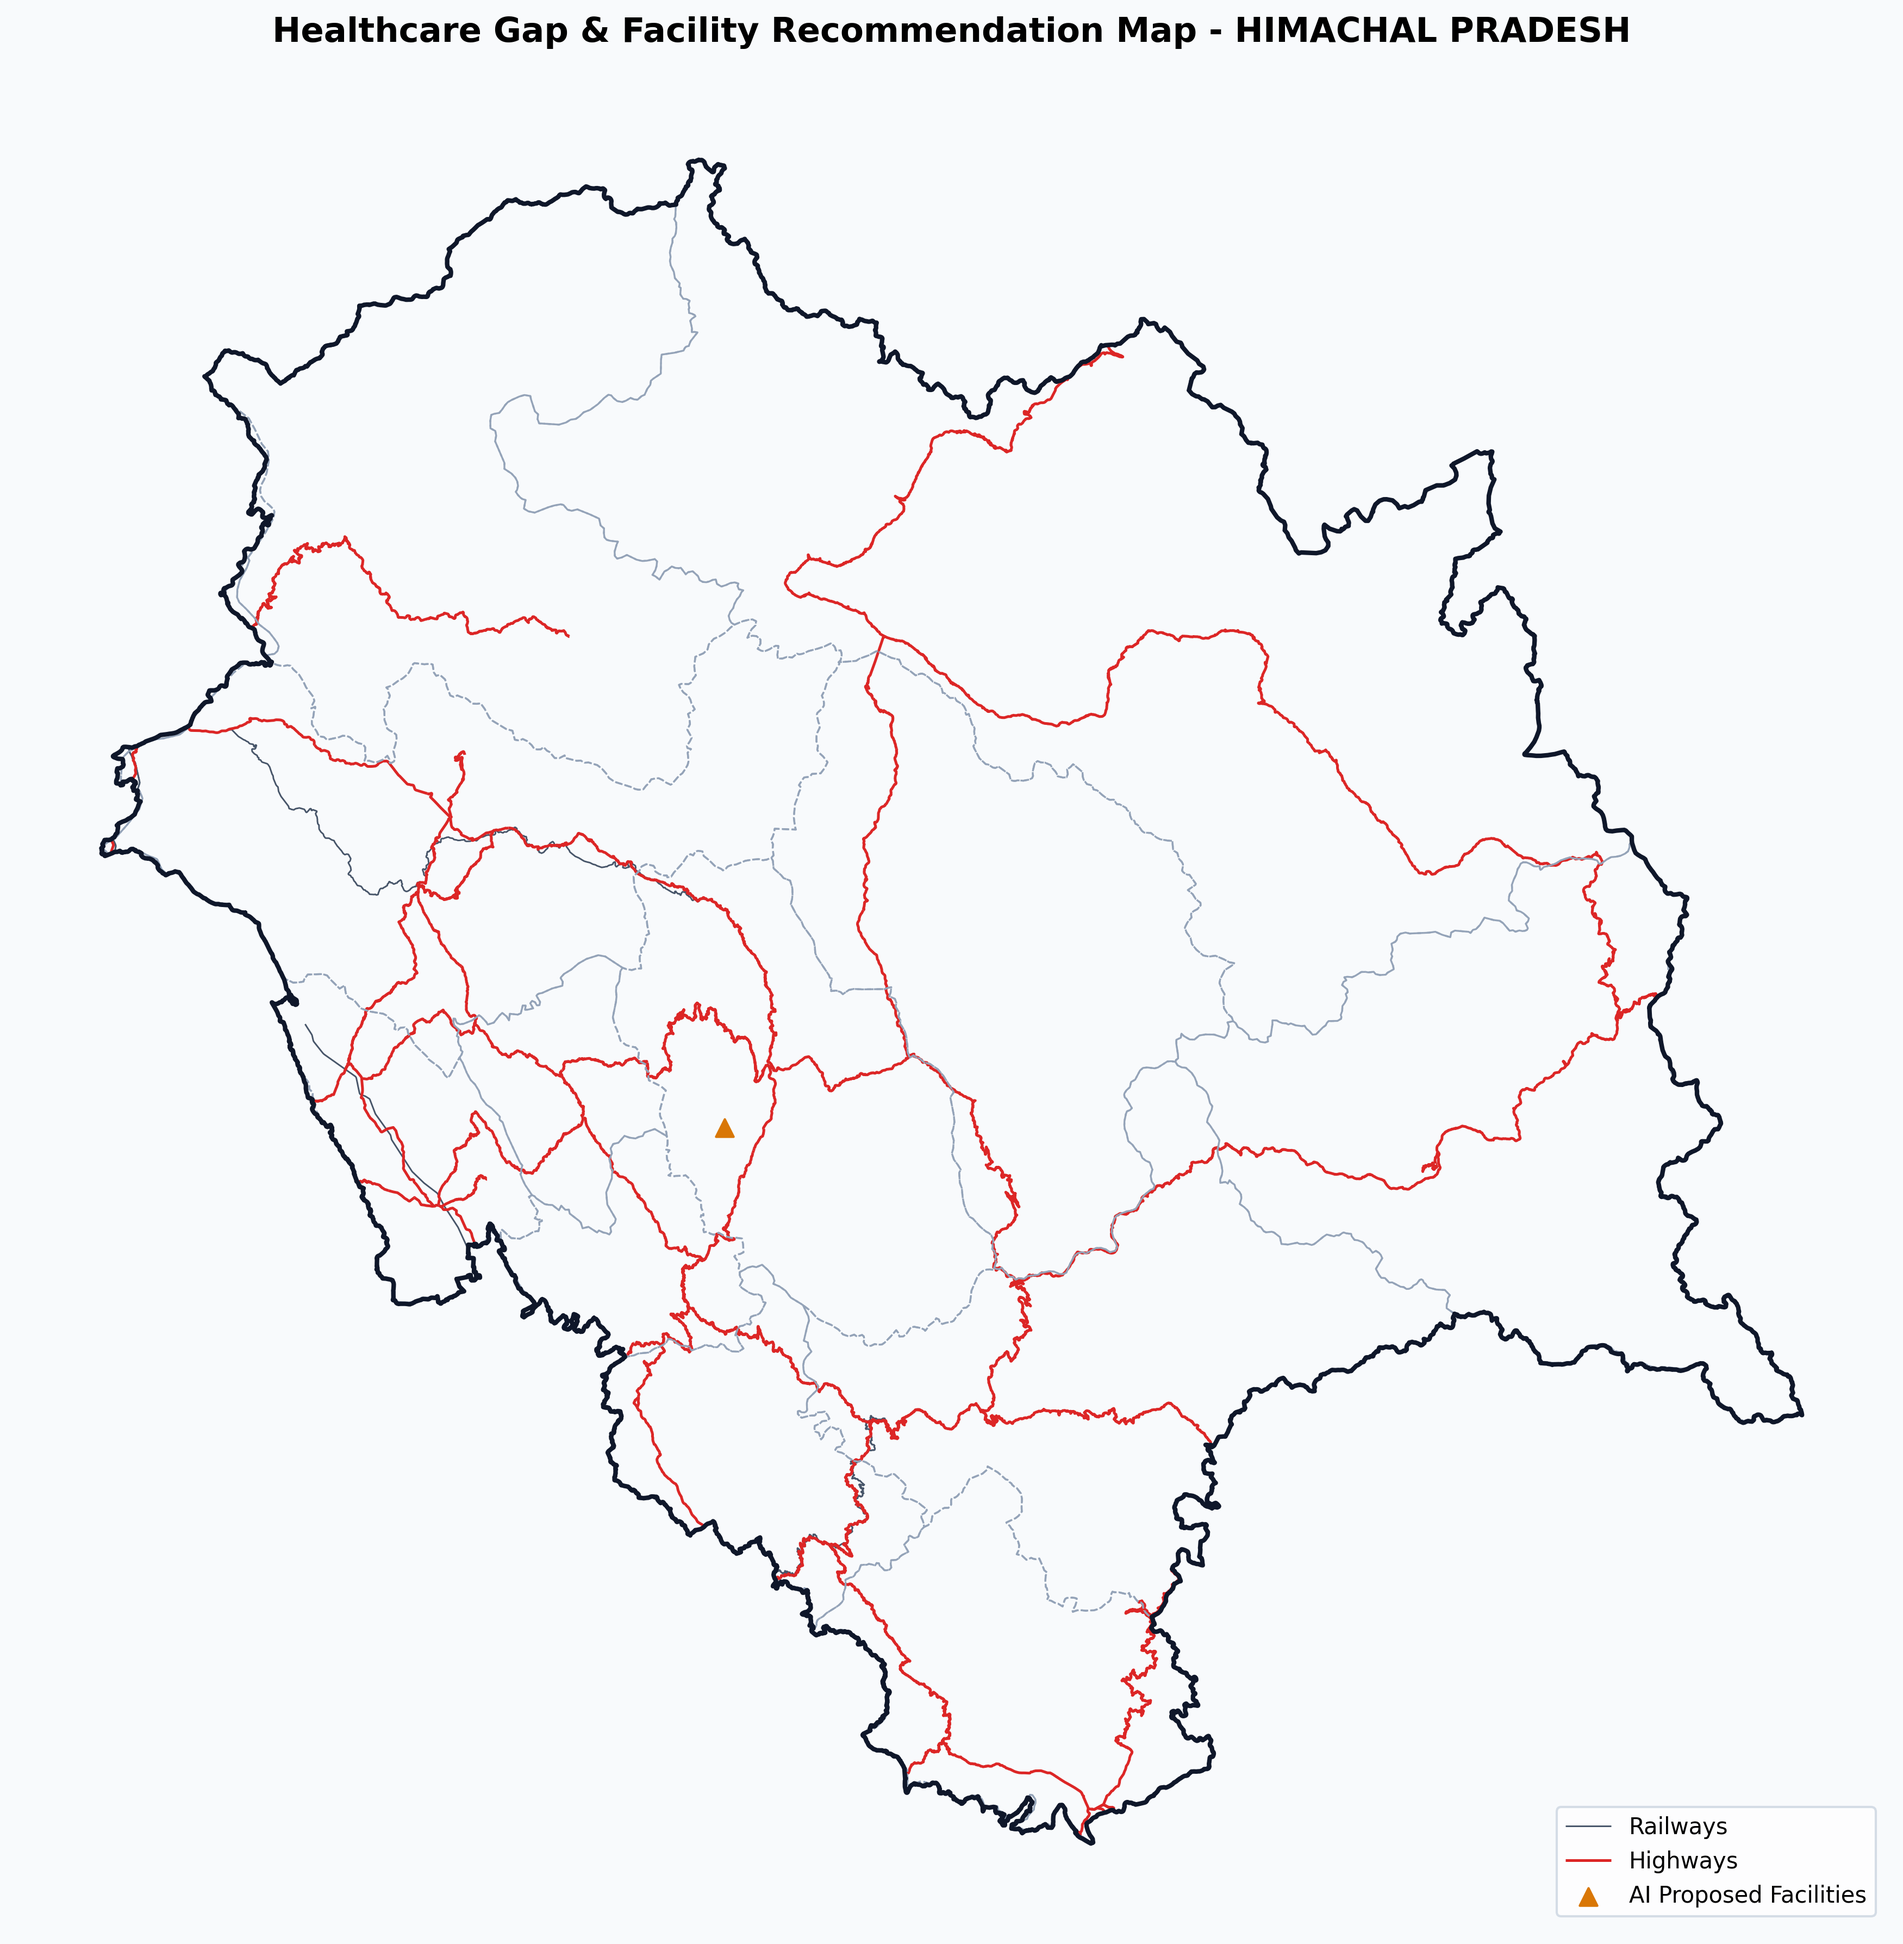
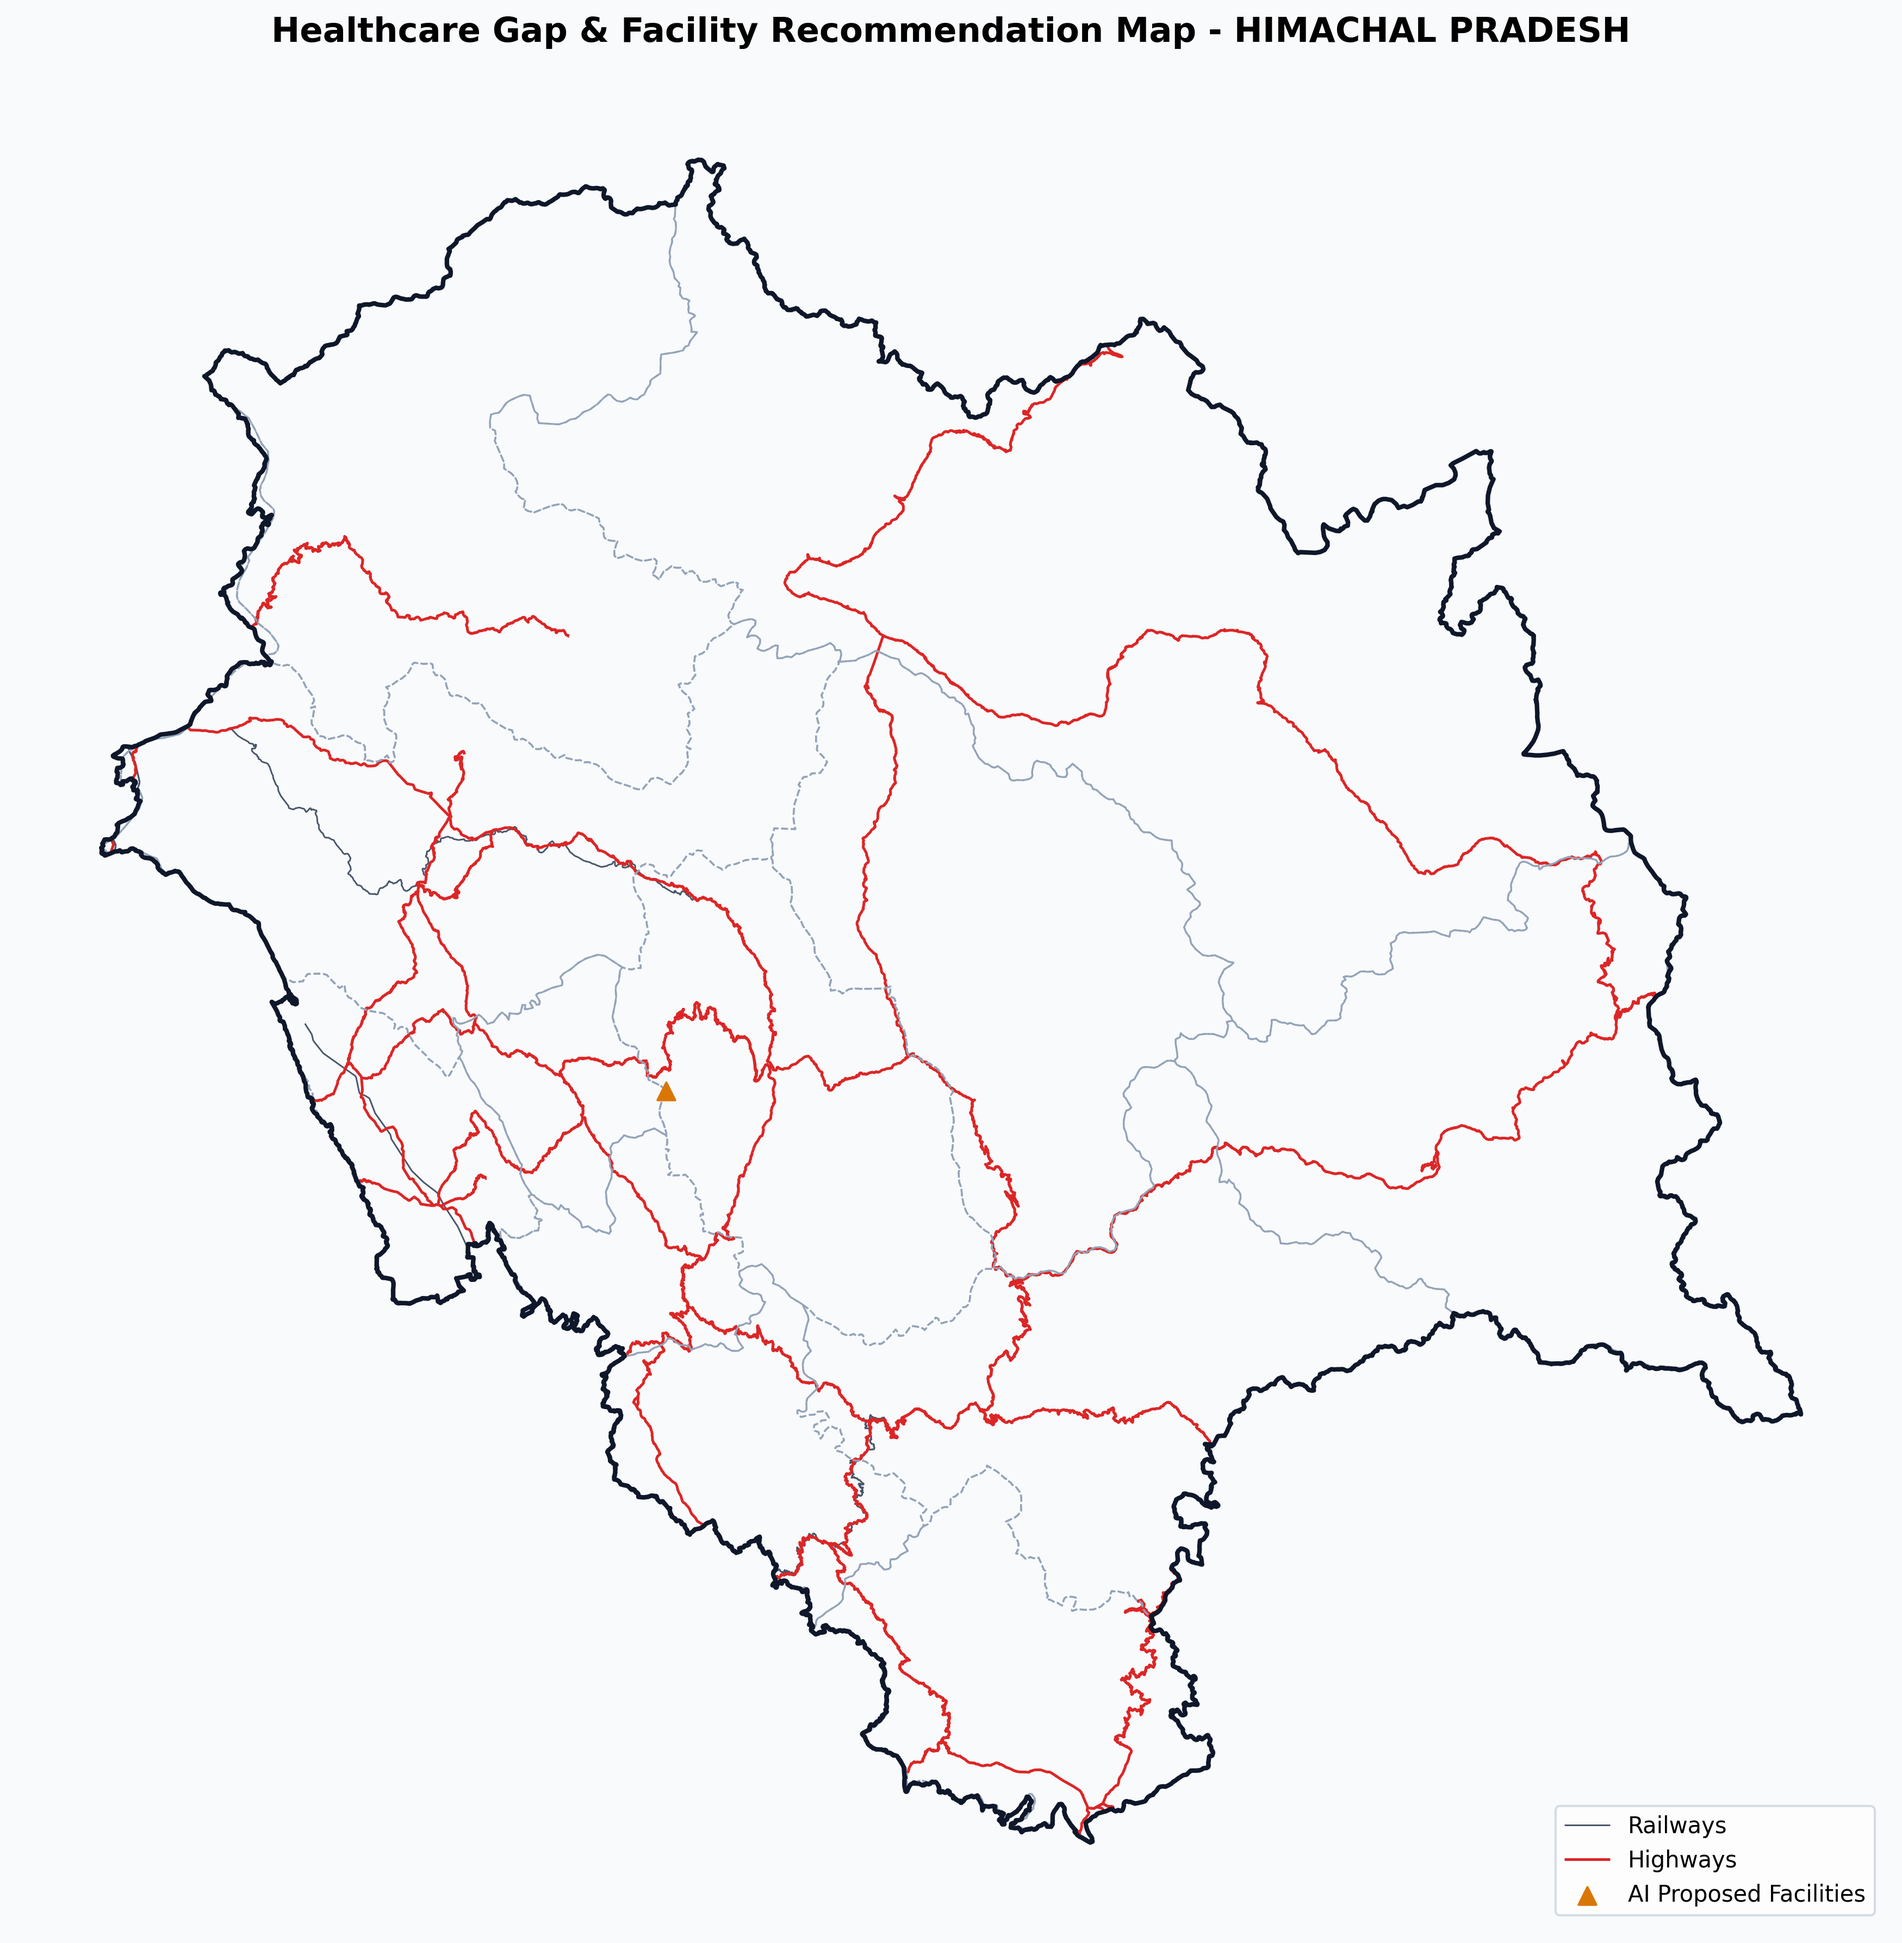
Refresh all files

Changed region(s): [[0.8725, 0.9317, 0.9037, 0.9628]]

diff --git a/modules/facility_recommender.py b/modules/facility_recommender.py
@@ -9,6 +9,55 @@ PROJECT_ROOT = Path(__file__).resolve().parent.parent
 CONSTANT_DATA_DIR = PROJECT_ROOT / "constant_data"
 OFFICIAL_SOI_BORDER = CONSTANT_DATA_DIR / "india-soi.geojson"
 
+# Population capacity mapping for healthcare facility types
+POPULATION_CAP_MAP = {
+    "MCH": 500000,
+    "MC": 500000,
+    "DH": 300000,
+    "SDH": 150000,
+    "RH": 100000,
+    "CHC": 100000,
+    "BPHC": 100000,
+    "PHC": 30000,
+    "UPHC": 30000,
+    "SC": 5000,
+}
+
+# Facility tiers ordered from highest capacity to primary care
+FACILITY_HIERARCHY = ["MCH", "MC", "DH", "SDH", "CHC", "BPHC", "PHC", "UPHC", "SC"]
+
+
+def predict_facility_type(cluster_population: float, is_urban: bool = False) -> dict:
+    """Predicts the recommended facility tier and required units based on cluster population."""
+    if cluster_population <= 0:
+        return {
+            "recommended_facility": "SC",
+            "units_needed": 1,
+            "unit_capacity": POPULATION_CAP_MAP["SC"],
+        }
+
+    candidate_tiers = (
+        ["MC", "DH", "SDH", "UPHC"]
+        if is_urban
+        else ["DH", "SDH", "CHC", "BPHC", "PHC", "SC"]
+    )
+
+    selected_facility = "SC"
+    for facility in candidate_tiers:
+        cap = POPULATION_CAP_MAP[facility]
+        if cluster_population >= cap:
+            selected_facility = facility
+            break
+
+    unit_capacity = POPULATION_CAP_MAP[selected_facility]
+    units_needed = int(np.ceil(cluster_population / unit_capacity))
+
+    return {
+        "recommended_facility": selected_facility,
+        "units_needed": units_needed,
+        "unit_capacity": unit_capacity,
+    }
+
 
 def filter_effective_facilities(health_gdf: gpd.GeoDataFrame) -> gpd.GeoDataFrame:
     """Excludes non-patient Sub-Centers (SCE / SC) from healthcare gap calculations."""
@@ -18,16 +67,32 @@ def filter_effective_facilities(health_gdf: gpd.GeoDataFrame) -> gpd.GeoDataFram
     type_cols = [
         c
         for c in health_gdf.columns
-        if any(k in c.lower() for k in ["type", "cat", "facility", "level", "nin", "nin_facility"])
+        if any(
+            k in c.lower()
+            for k in ["type", "cat", "facility", "level", "nin", "nin_facility"]
+        )
     ]
     if not type_cols:
         return health_gdf
 
     type_col = type_cols[0]
-    non_patient_codes = ["sce", "sub center", "sub-center", "sub centre", "sub-centre", "sc"]
+    non_patient_codes = [
+        "sce",
+        "sub center",
+        "sub-center",
+        "sub centre",
+        "sub-centre",
+        "sc",
+    ]
     pattern = r"|".join([rf"\b{re.escape(code)}\b" for code in non_patient_codes])
 
-    return health_gdf[~health_gdf[type_col].astype(str).str.strip().str.lower().str.contains(pattern, regex=True)]
+    return health_gdf[
+        ~health_gdf[type_col]
+        .astype(str)
+        .str.strip()
+        .str.lower()
+        .str.contains(pattern, regex=True)
+    ]
 
 
 def predict_facility_locations(
@@ -38,9 +103,22 @@ def predict_facility_locations(
     cluster_eps_km: float = 15.0,
     min_villages_per_cluster: int = 5,
 ) -> gpd.GeoDataFrame:
-    """Identifies unserved village clusters and calculates optimal location centroids strictly within official SOI borders."""
+    """Identifies unserved village clusters, calculates population-weighted centroids,
+
+    and predicts facility types/units strictly within official SOI borders.
+    """
+    empty_cols = [
+        "recommendation_id",
+        "geometry",
+        "unserved_population",
+        "village_count",
+        "recommended_facility",
+        "units_needed",
+        "unit_capacity",
+    ]
+
     if villages_gdf is None or villages_gdf.empty:
-        return gpd.GeoDataFrame(columns=["recommendation_id", "geometry"], crs="EPSG:4326")
+        return gpd.GeoDataFrame(columns=empty_cols, crs="EPSG:4326")
 
     clean_health = filter_effective_facilities(health_gdf)
 
@@ -57,10 +135,12 @@ def predict_facility_locations(
         unserved_villages = villages_gdf.copy()
 
     if unserved_villages.empty:
-        return gpd.GeoDataFrame(columns=["recommendation_id", "geometry"], crs="EPSG:4326")
+        return gpd.GeoDataFrame(columns=empty_cols, crs="EPSG:4326")
 
     coords_rad = np.radians(
-        unserved_villages[["geometry"]].apply(lambda p: [p.geometry.y, p.geometry.x], axis=1).tolist()
+        unserved_villages[["geometry"]]
+        .apply(lambda p: [p.geometry.y, p.geometry.x], axis=1)
+        .tolist()
     )
     kms_per_radian = 6371.0088
     epsilon = cluster_eps_km / kms_per_radian
@@ -68,9 +148,24 @@ def predict_facility_locations(
     db = DBSCAN(eps=epsilon, min_samples=min_villages_per_cluster, metric="haversine")
     unserved_villages["cluster"] = db.fit_predict(coords_rad)
 
-    clustered = unserved_villages[unserved_villages["cluster"] != -1]
+    clustered = unserved_villages[unserved_villages["cluster"] != -1].copy()
     if clustered.empty:
-        return gpd.GeoDataFrame(columns=["recommendation_id", "geometry"], crs="EPSG:4326")
+        return gpd.GeoDataFrame(columns=empty_cols, crs="EPSG:4326")
+
+    # Detect population column name dynamically
+    pop_col = None
+    possible_pop_cols = [
+        "POPULATION",
+        "TOT_P",
+        "TOTAL_POP",
+        "pop",
+        "tot_p",
+        "population",
+    ]
+    for col in possible_pop_cols:
+        if col in clustered.columns:
+            pop_col = col
+            break
 
     # Load Survey of India boundary for territorial validation
     soi_gdf = None
@@ -89,26 +184,58 @@ def predict_facility_locations(
             pass
 
     boundary_union = (
-        valid_boundary.unary_union if (valid_boundary is not None and not valid_boundary.empty) else None
+        valid_boundary.unary_union
+        if (valid_boundary is not None and not valid_boundary.empty)
+        else None
     )
 
-    proposed_points = []
-    rec_ids = []
+    records = []
 
     for cluster_id, group in clustered.groupby("cluster"):
-        center_lon = group.geometry.x.mean()
-        center_lat = group.geometry.y.mean()
+        total_pop = 0
+        if pop_col is not None:
+            # Convert non-numeric values gracefully
+            pop_series = pd.to_numeric(group[pop_col], errors="coerce").fillna(0)
+            total_pop = float(pop_series.sum())
+
+        # Population-Weighted Centroid calculation
+        if total_pop > 0:
+            center_lon = (group.geometry.x * pop_series).sum() / total_pop
+            center_lat = (group.geometry.y * pop_series).sum() / total_pop
+        else:
+            center_lon = group.geometry.x.mean()
+            center_lat = group.geometry.y.mean()
 
         point_gdf = gpd.GeoDataFrame(
-            {"geometry": gpd.points_from_xy([center_lon], [center_lat])}, crs="EPSG:4326"
+            {"geometry": gpd.points_from_xy([center_lon], [center_lat])},
+            crs="EPSG:4326",
         )
 
-        if boundary_union is not None:
-            if point_gdf.within(boundary_union).iloc[0]:
-                proposed_points.append(point_gdf.geometry.iloc[0])
-                rec_ids.append(f"AI_Site_{cluster_id + 1}")
-        else:
-            proposed_points.append(point_gdf.geometry.iloc[0])
-            rec_ids.append(f"AI_Site_{cluster_id + 1}")
+        # Ensure site falls within boundary limits
+        if boundary_union is not None and not point_gdf.within(boundary_union).iloc[0]:
+            continue
 
-    return gpd.GeoDataFrame({"recommendation_id": rec_ids, "geometry": proposed_points}, crs="EPSG:4326")
+        # Determine Urban/Rural context if attribute exists
+        is_urban = False
+        if "IS_URBAN" in group.columns:
+            is_urban = group["IS_URBAN"].astype(bool).any()
+
+        # Predict facility details based on cluster population
+        facility_info = predict_facility_type(total_pop, is_urban=is_urban)
+
+        records.append(
+            {
+                "recommendation_id": f"AI_Site_{cluster_id + 1}",
+                "geometry": point_gdf.geometry.iloc[0],
+                "unserved_population": int(total_pop),
+                "village_count": len(group),
+                "recommended_facility": facility_info["recommended_facility"],
+                "units_needed": facility_info["units_needed"],
+                "unit_capacity": facility_info["unit_capacity"],
+            }
+        )
+
+    if not records:
+        return gpd.GeoDataFrame(columns=empty_cols, crs="EPSG:4326")
+
+    return gpd.GeoDataFrame(records, crs="EPSG:4326")
